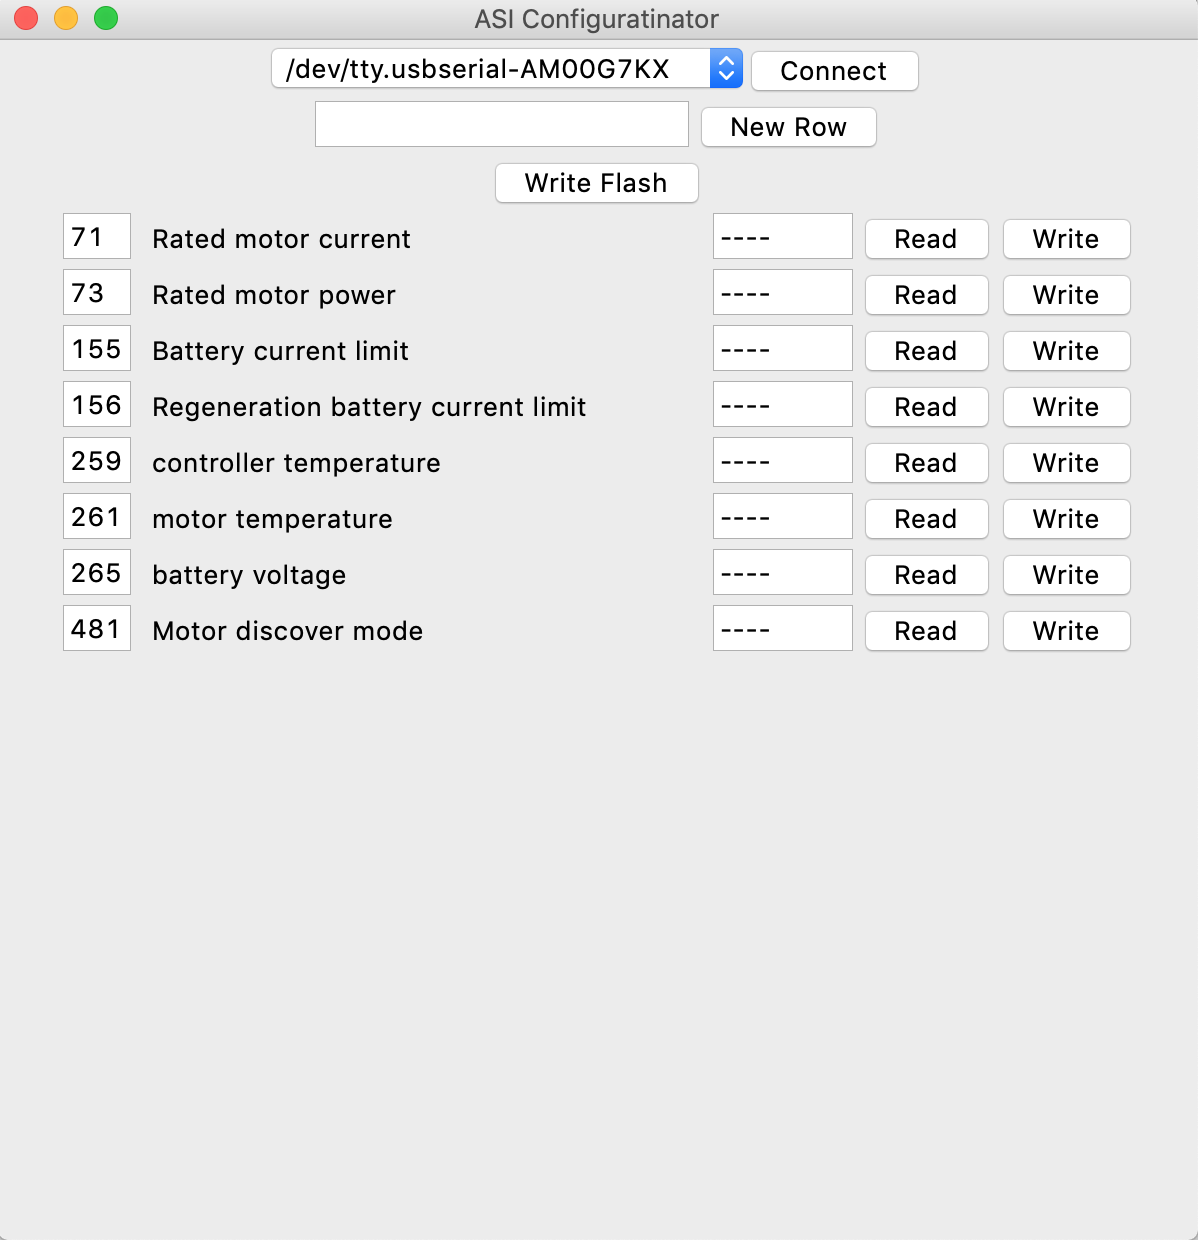
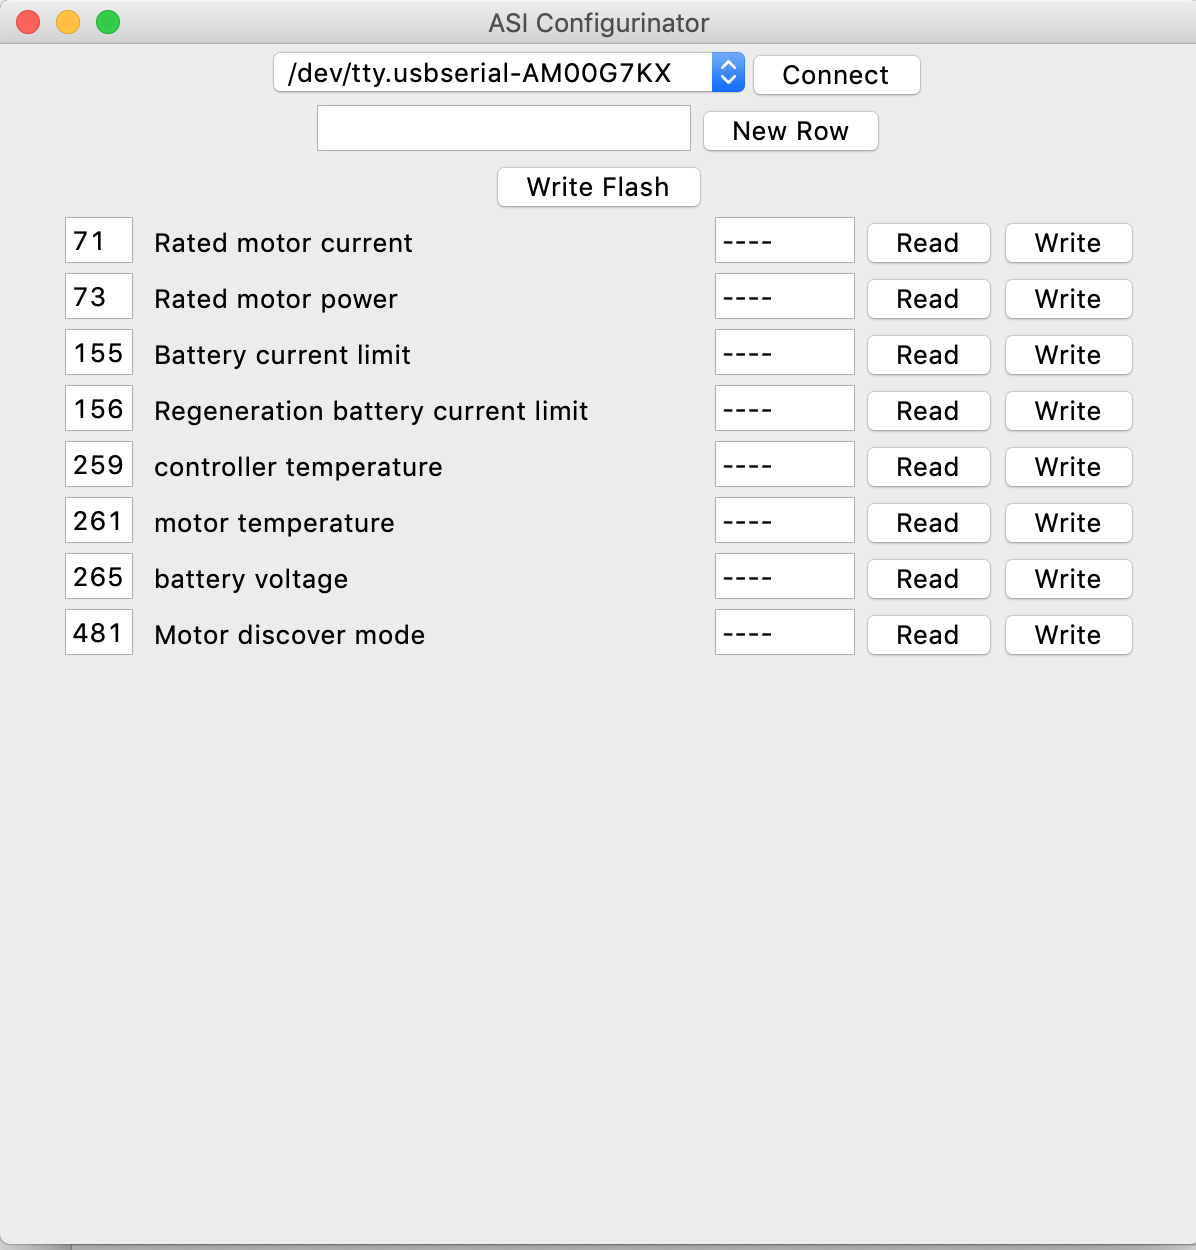
updates default fields

diff --git a/bac-configurinator.py b/bac-configurinator.py
@@ -136,9 +136,9 @@ if __name__ == "__main__":
     global asi_modbus
 
     # specify prepopulated parameters for GUI
-    default_addresses = [71, 73, 155, 156, 259, 261, 265, 481]
+    default_addresses = [71, 73, 155, 156, 259, 261, 265, 481, 129]
 
     app = Main_Window()
-    app.title('ASI Configuratinator')
+    app.title('ASI Configurinator')
     app.geometry("600x600+100+100")
     app.mainloop()
